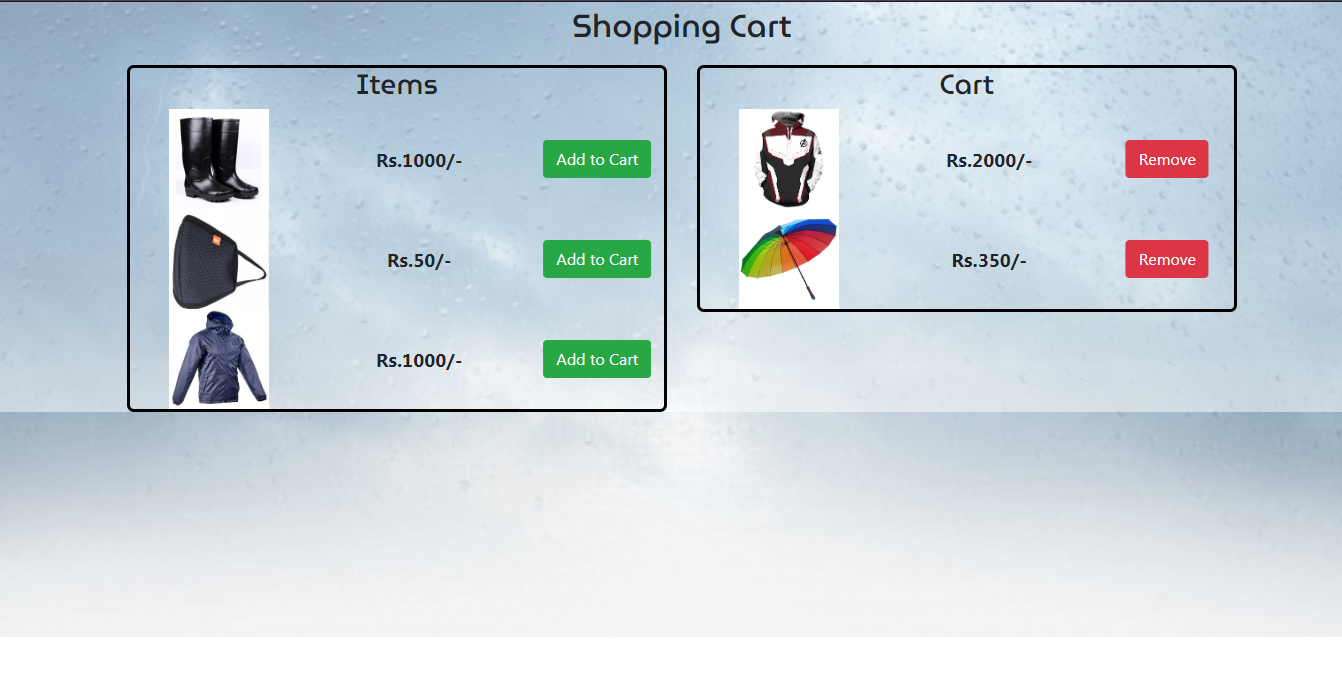
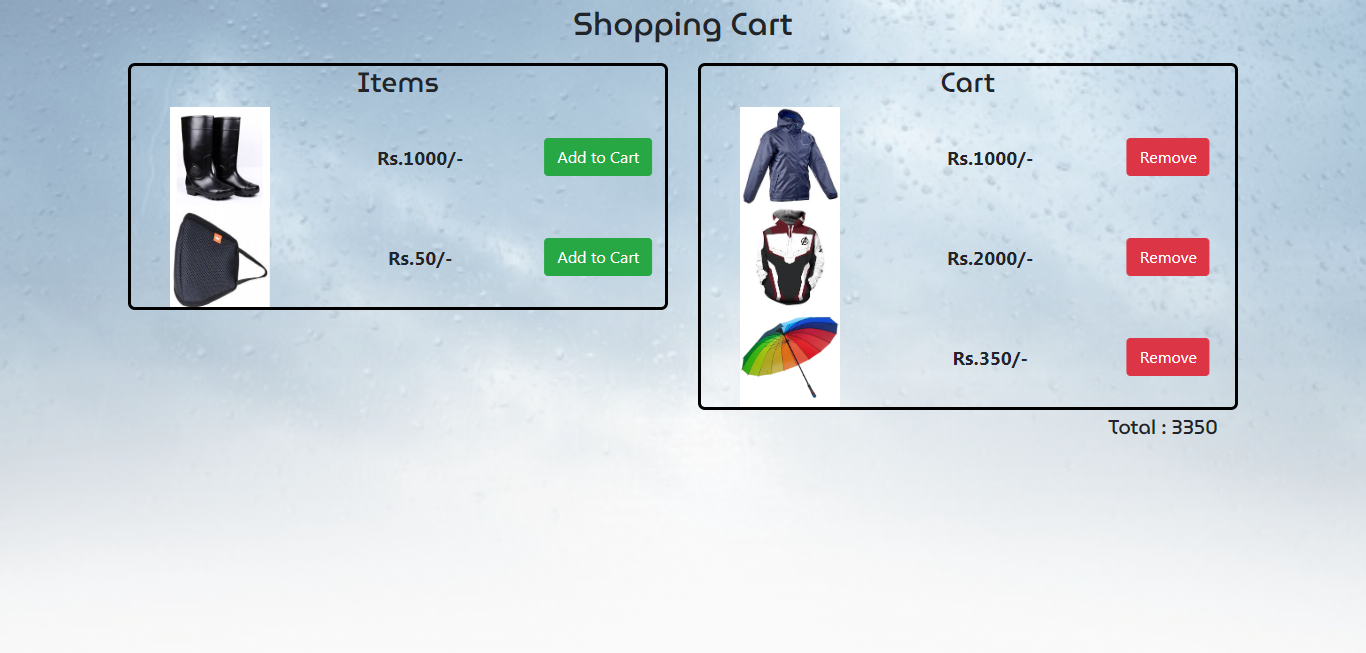
Updated readme for total

diff --git a/readme.md b/readme.md
@@ -1,5 +1,5 @@
 This is the image of the site on loading it initially
-![initial](images/img1.png)
+![initial](images/image1.png)
 This is after some items have been added to the cart
 ![middle](images/image2.png)
 This is when all the items are added to the cart
